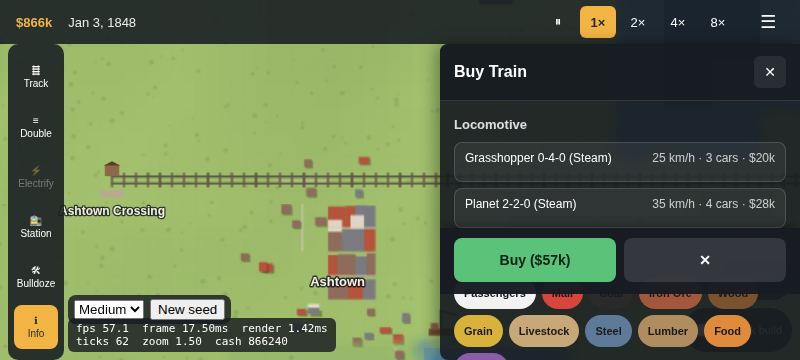
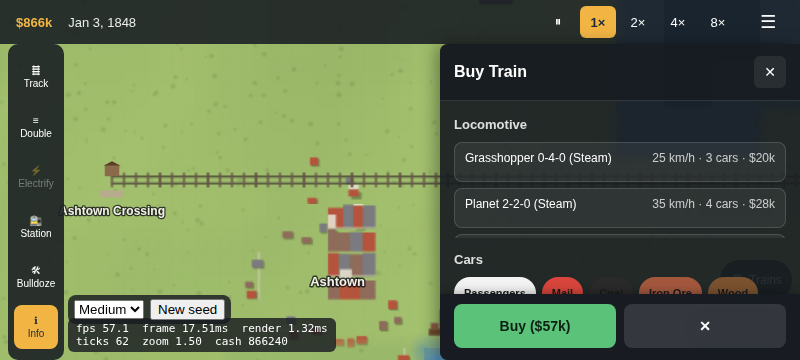
Phase 8: fix pinned panel footer buttons (carry-over from Phase 7.1 review)
.panel-actions was still nested inside the scrolling .panel-body, relying on
position:sticky to fake staying pinned — the same flaw the header fix
addressed last phase. On a panel whose content is much taller than the
viewport (Finance), sticky only "sticks" once scrolled past its natural flow
position, so the Yearly Report button rendered mid-scroll and overlapped
later rows instead of sitting at the bottom.

openPanel now takes an explicit `footer` list rendered as a real flex
sibling of `.panel-body`, outside its scrollport — matching how
`.panel-header` was already fixed. Updated all four callers (Finance,
New Station, Buy Train, Train panel).

diff --git a/src/ui/trainPanels.ts b/src/ui/trainPanels.ts
@@ -1,8 +1,8 @@
 /**
  * Train UI (SPEC §7, PLAN Phase 6): the Buy Train dialog (loco list, car picker, tap-the-map
  * orders editor), the per-train management panel (status/orders/consist/sell), and the train list.
- * Bodies scroll and the action row stays pinned via `.panel-actions`' sticky CSS (see index.html;
- * carried over from the Phase 5 review's overflow fix) so everything still fits an 800×360 view.
+ * Bodies scroll and the action row stays pinned as `openPanel`'s `footer` (see src/ui/panel.ts),
+ * a real flex sibling outside the scrollport, so everything still fits an 800×360 view.
  */
 import { CARGO, CARGO_TYPES, type CargoType } from "../data/cargo";
 import { locomotiveById, locomotivesAvailableIn, type LocomotiveDef } from "../data/trains";
@@ -243,8 +243,8 @@ export function openBuyTrainPanel(
       h("div", { className: "panel-section-title" }, strings.trains.orders),
       ordersListEl,
       pickBtn,
-      h("div", { className: "panel-actions" }, buyBtn, cancelBtn),
     ],
+    footer: [buyBtn, cancelBtn],
     onClose: () => {
       picking = false;
       handlers.cancelPickStationOnMap();
@@ -283,29 +283,23 @@ export function openTrainPanel(container: HTMLElement, state: GameState, trainId
     ];
 
     const sellPlan = computeSellTrainPlan(state, trainId);
-    body.push(
-      h(
-        "div",
-        { className: "panel-actions" },
-        h(
-          "button",
-          {
-            className: "panel-action-build train-sell-btn",
-            onClick: () => {
-              const result = sellTrain(state, trainId);
-              if (!result.ok) {
-                showToast(container, strings.build.reasons[result.reason], "warn");
-                return;
-              }
-              closePanel();
-            },
-          },
-          `${strings.trains.sell} (+${formatMoney(sellPlan.refund)})`,
-        ),
-      ),
+    const sellBtn = h(
+      "button",
+      {
+        className: "panel-action-build train-sell-btn",
+        onClick: () => {
+          const result = sellTrain(state, trainId);
+          if (!result.ok) {
+            showToast(container, strings.build.reasons[result.reason], "warn");
+            return;
+          }
+          closePanel();
+        },
+      },
+      `${strings.trains.sell} (+${formatMoney(sellPlan.refund)})`,
     );
 
-    openPanel(container, { title: train.name, body });
+    openPanel(container, { title: train.name, body, footer: [sellBtn] });
   };
 
   render();

diff --git a/index.html b/index.html
@@ -203,13 +203,7 @@
         flex: 1 1 auto;
         min-height: 0;
         overflow-y: auto;
-        /* Extra bottom padding reserves room so the sticky `.panel-actions` bar (below, still
-           nested inside `.panel-body` by every caller) never visually overlaps the last row(s) of
-           content — sticky positioning clamps the bar to *this* scrollport's bottom even when
-           total content is only barely taller than the panel. 66px = .panel-actions' own rendered
-           height (10px+12px padding + the 44px button row) — keep this and its `margin-bottom`
-           below in sync if that ever changes. */
-        padding: 12px 14px 66px;
+        padding: 12px 14px;
         display: flex;
         flex-direction: column;
         gap: 10px;
@@ -286,15 +280,13 @@
       .panel-actions {
         display: flex;
         gap: 8px;
-        /* Pinned to the bottom of `.panel-body`'s own scroll area (it's nested inside `.panel-body`
-           by every caller, as the last item of the body list) so the confirm/build/sell button is
-           always reachable on a short viewport instead of requiring a scroll past the rest of the
-           panel body (Phase 5 review carry-over: the New Station panel's Build button could get
-           cut off at 800×360). The negative margins reclaim `.panel-body`'s own padding so the bar
-           spans edge-to-edge. */
-        position: sticky;
-        bottom: 0;
-        margin: 8px -14px -66px;
+        /* A real flex sibling of `.panel-body`, outside its scrollport (Phase 7.1 review carry-
+           over — see the `footer` doc comment on `PanelOptions` in src/ui/panel.ts for why the
+           previous `position: sticky` approach, nested inside `.panel-body`, could render the
+           button mid-scroll and overlap later rows instead of sitting at the panel's bottom on
+           tall content). `flex: 0 0 auto` keeps it at its natural height always outside
+           `.panel-body`'s shrinkable flex space, matching `.panel-header` above. */
+        flex: 0 0 auto;
         padding: 10px 14px 12px;
         background: rgba(24, 28, 34, 0.97);
         box-shadow: 0 -6px 10px -6px rgba(0, 0, 0, 0.4);

diff --git a/src/ui/panel.ts b/src/ui/panel.ts
@@ -16,6 +16,14 @@ let currentPanel: {
 export interface PanelOptions {
   title: string;
   body: Node[];
+  /** A pinned action row (e.g. Build/Cancel, Buy/Cancel, Sell, Yearly Report) rendered as its own
+   * flex sibling *outside* `.panel-body`'s scrollport — never scrolls, never overlaps body content
+   * (Phase 7.1 review carry-over: passing these buttons as the last item of `body` and relying on
+   * `.panel-actions`' own `position: sticky` to fake pinning had the same flaw the header fix below
+   * addresses — sticky only "sticks" once scrolled *past* its natural flow position, so on a panel
+   * whose content is much taller than the viewport it could render mid-scroll, overlapping later
+   * rows instead of sitting at the bottom; see docs/screenshots/phase-7-finance-panel.png). */
+  footer?: Node[];
   /** Called when this panel closes — including via its own ✕ button, the Android back button, or
    * a later `openPanel` call replacing it, not just an explicit `closePanel()` call — so a caller
    * with side state tied to the panel being open (e.g. Station mode's catchment overlay) can
@@ -28,9 +36,7 @@ export function openPanel(container: HTMLElement, options: PanelOptions): void {
   closePanel();
 
   const close = (): void => closePanel();
-  const root = h(
-    "div",
-    { className: "panel" },
+  const children = [
     h(
       "div",
       { className: "panel-header" },
@@ -42,7 +48,11 @@ export function openPanel(container: HTMLElement, options: PanelOptions): void {
       ),
     ),
     h("div", { className: "panel-body" }, ...options.body),
-  );
+  ];
+  if (options.footer && options.footer.length > 0) {
+    children.push(h("div", { className: "panel-actions" }, ...options.footer));
+  }
+  const root = h("div", { className: "panel" }, ...children);
   container.appendChild(root);
   // Force a reflow so the slide-in transition plays instead of jumping straight to open.
   void root.offsetWidth;

diff --git a/src/ui/financePanel.ts b/src/ui/financePanel.ts
@@ -159,22 +159,20 @@ export function openFinancePanel(container: HTMLElement, state: GameState): void
     body.push(h("div", { className: "panel-section-title" }, strings.finance.lastYear));
     body.push(...ledgerRows(state.finance.lastYear));
 
-    body.push(
-      h(
-        "div",
-        { className: "panel-actions" },
-        h(
-          "button",
-          {
-            className: "panel-action-build",
-            onClick: () => openYearlyReport(container, state),
-          },
-          strings.finance.yearlyReport,
-        ),
-      ),
+    const yearlyReportBtn = h(
+      "button",
+      {
+        className: "panel-action-build",
+        onClick: () => openYearlyReport(container, state),
+      },
+      strings.finance.yearlyReport,
     );
 
-    openPanel(container, { title: strings.finance.title, body });
+    openPanel(container, {
+      title: strings.finance.title,
+      body,
+      footer: [yearlyReportBtn],
+    });
     drawChart(canvas, state.finance.netWorthHistory);
   };
 

diff --git a/src/ui/stationPanels.ts b/src/ui/stationPanels.ts
@@ -193,12 +193,8 @@ export function openStationPlacementPanel(
 
   openPanel(container, {
     title: strings.station.newStationTitle,
-    body: [
-      h("div", { className: "station-type-picker" }, ...typeButtons),
-      statsEl,
-      economyEl,
-      h("div", { className: "panel-actions" }, buildBtn, cancelBtn),
-    ],
+    body: [h("div", { className: "station-type-picker" }, ...typeButtons), statsEl, economyEl],
+    footer: [buildBtn, cancelBtn],
     onClose: () => callbacks.onClose(),
   });
 
